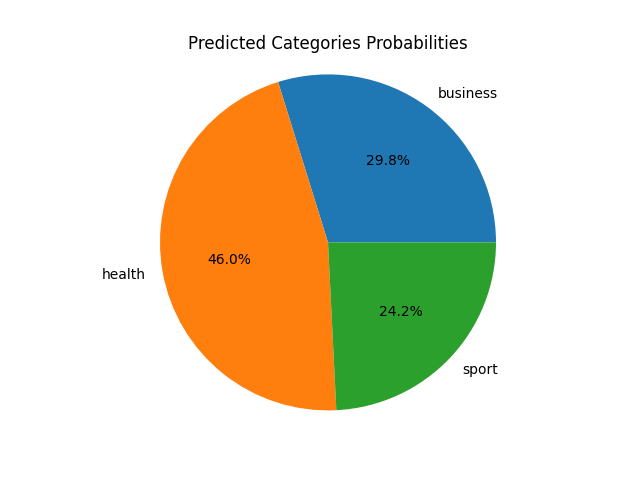
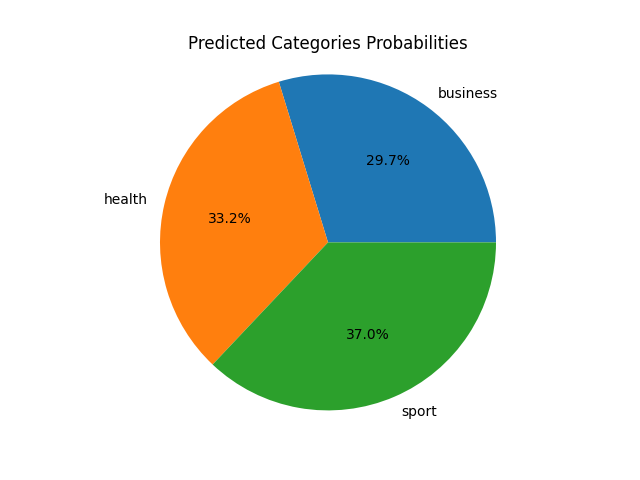
assignment finilized

diff --git a/templates/text_classifier.html b/templates/text_classifier.html
@@ -41,10 +41,13 @@
                     <button type="submit" class="btn btn-primary float-end">Process</button>
                 </div>
             </form>
-
+            {%if results%}
             <div class="processor_results">
-                {{results}}
+                <h5>Predicted Category:  <span class="badge bg-primary">{{results['predicted_category']|capitalize  }}</span></h5>
+                <h5>Predicted Probabilities: </h5>
+                <p><img alt="static/classification.png" src="{{ url_for('static', filename='classification.png') }}"/>
             </div>
+            {%endif%}
         </div>
     </div>
 

diff --git a/static/style.css b/static/style.css
@@ -29,7 +29,7 @@
 }
 
 .processor_results{
-    margin-top: 20vh;
+    margin-top: 10vh;
 }
 
 input[type="text"] {

diff --git a/TextClassification.py b/TextClassification.py
@@ -4,12 +4,14 @@ import pandas as pandas;
 
 from sklearn.feature_extraction.text import TfidfVectorizer
 from sklearn.naive_bayes import MultinomialNB
-
+import matplotlib
+matplotlib.use('Agg')  # Use non-interactive backend
 import matplotlib.pyplot as plt
 
 
 
 filename = "articles.csv"
+chart_path = 'static/classification.png'
 
 
 def read_csv():
@@ -29,6 +31,7 @@ def naive_bayes_classification(query_text):
 
     categories = df['category']
     articles = df['article_temp']
+
     # Create a TF-IDF vectorizer
     vectorizer = TfidfVectorizer()
     X = vectorizer.fit_transform(articles)
@@ -46,18 +49,16 @@ def naive_bayes_classification(query_text):
     # Get the predicted label scores
     categories_scores = dict(zip(naive_bayes.classes_, predicted_probabilities))
 
-    print(categories_scores)
-
     # Predict the label for the new document
-    predicted_label = naive_bayes.predict(query_text_tfidf)
+    predicted_category = naive_bayes.predict(query_text_tfidf)
 
-    # Print predicted label
-    print("Predicted Label:", predicted_label);
-
+    #createn a pie chart for UI
     create_save_chart(naive_bayes, predicted_probabilities);
 
     return {
-
+        "predicted_category": predicted_category[0],
+        "img": chart_path,
+        "predicted_probabilities": predicted_probabilities,
     }
 
 
@@ -73,7 +74,6 @@ def create_save_chart(naive_bayes, predicted_probabilities):
     #plt.show()
 
     # Save the pie chart to a file
-    chart_path = 'static/classification.png'
     plt.savefig(chart_path)
 
-naive_bayes_classification("More work is needed to understand why the rise is happening, they say. Some of the rise could be attributed to catch-up - from backlogs and delays when health services were shut - but does not explain all of the newly diagnosed cases, say scientists.");
+#naive_bayes_classification("More work is needed to understand why the rise is happening, they say. Some of the rise could be attributed to catch-up - from backlogs and delays when health services were shut - but does not explain all of the newly diagnosed cases, say scientists.");

diff --git a/index.py b/index.py
@@ -5,7 +5,7 @@ import os
 import ast
 from datetime import datetime, timedelta
 from QueryProcessing import get_relevent_score
-from TextClassification import get_classification
+from TextClassification import naive_bayes_classification
 app = Flask(__name__)
 
 
@@ -101,7 +101,7 @@ def search():
 def text_classifier_method():
     if request.method == "POST":
         text = request.form.get("text")
-        results = get_classification(text)
+        results = naive_bayes_classification(text)
         return render_template("text_classifier.html", text=text, results=results)
 
     return render_template("text_classifier.html")
